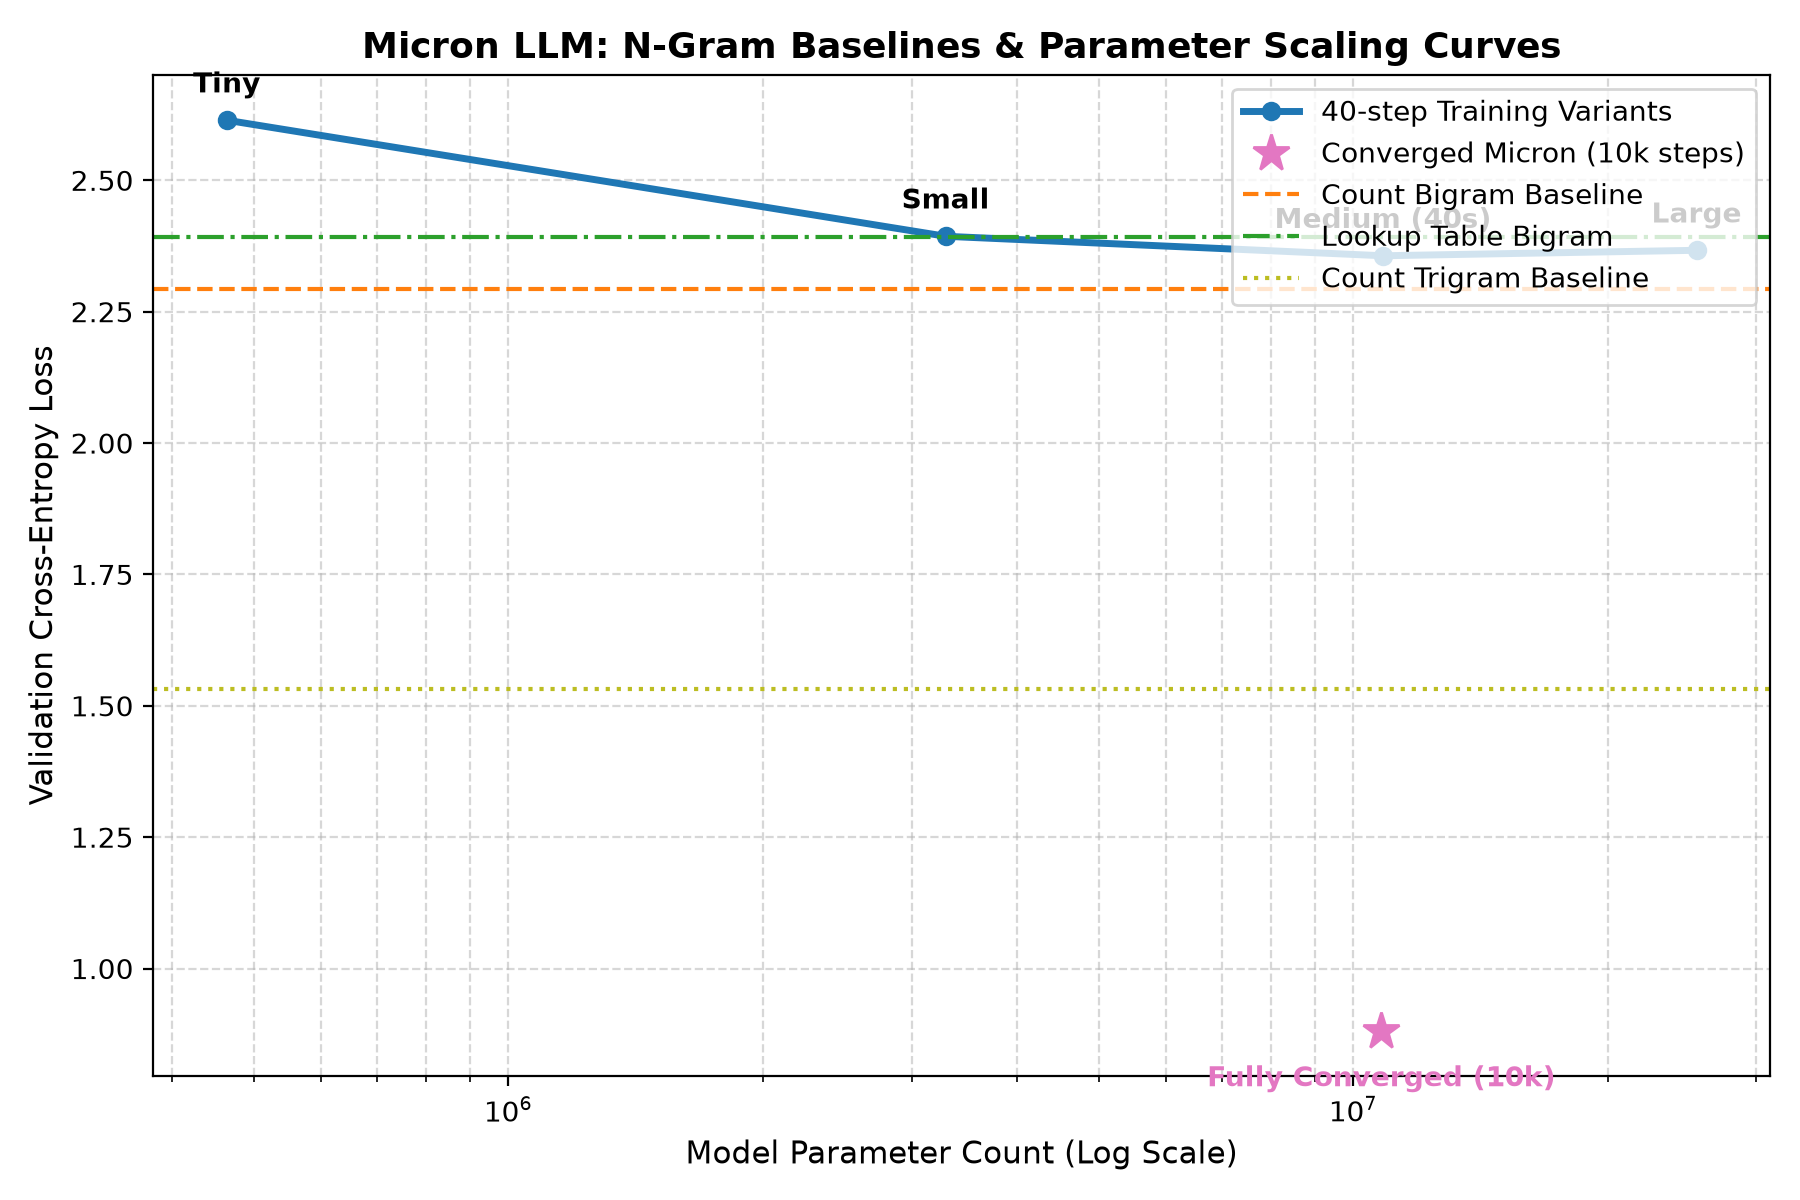
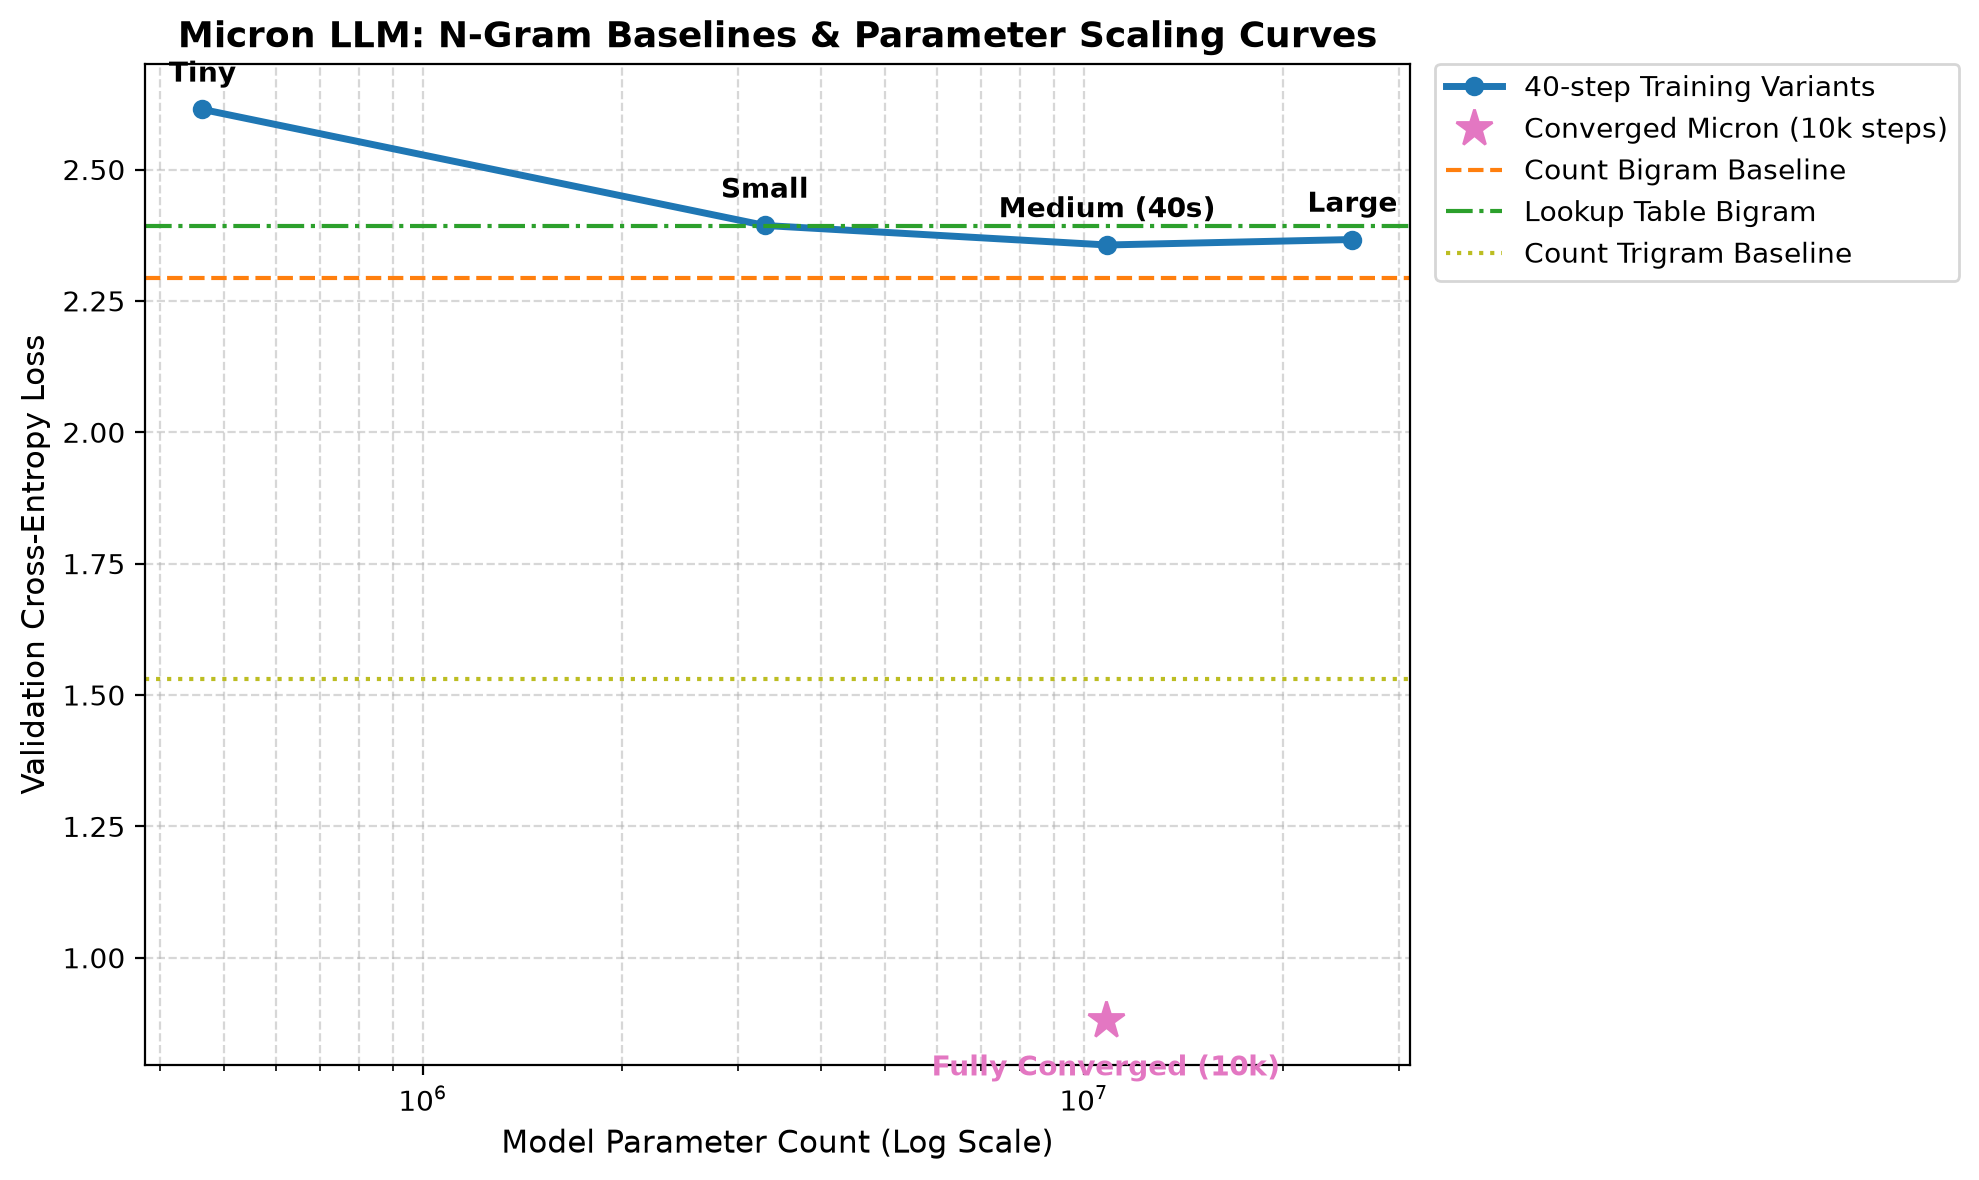
Scale Laws.png legend update

diff --git a/evaluation/eval_baselines.py b/evaluation/eval_baselines.py
@@ -187,12 +187,66 @@ def train_scaling_variant(train_data, val_data, vocab_size, block_size, n_embd, 
     
     return num_params, mean_val_loss, bpc
 
-def run_baselines_and_scaling():
+def plot_results(results, output_plot_path, num_steps):
+    print("Generating scaling law plots...")
+    counts_res = results["count_bigram"]
+    lookup_val_loss = results["lookup_bigram"]["loss"]
+    variants = results["scaling_law"]["variants"]
+    param_counts = [v["params"] for v in variants]
+    val_losses = [v["val_loss"] for v in variants]
+    
+    converged_params = results["scaling_law"]["fully_converged_micron"]["params"]
+    converged_val_loss = results["scaling_law"]["fully_converged_micron"]["val_loss"]
+    
+    fig, ax1 = plt.subplots(figsize=(10, 6))
+    
+    # Plot scaling curve for short runs
+    ax1.plot(param_counts, val_losses, 'o-', color='#1f77b4', linewidth=2.5, label=f'{num_steps}-step Training Variants')
+    for i, txt in enumerate(["Tiny", "Small", f"Medium ({num_steps}s)", "Large"]):
+        ax1.annotate(txt, (param_counts[i], val_losses[i]), textcoords="offset points", xytext=(0,10), ha='center', fontweight="bold")
+        
+    # Mark fully converged Micron checkpoint (from 10k step run)
+    ax1.plot(converged_params, converged_val_loss, '*', markersize=14, color='#e377c2', label='Converged Micron (10k steps)')
+    ax1.annotate("Fully Converged (10k)", (converged_params, converged_val_loss), textcoords="offset points", xytext=(0,-20), ha='center', color='#e377c2', fontweight="bold")
+    
+    # Mark Baselines as horizontal lines
+    ax1.axhline(y=counts_res["bigram_loss"], color='#ff7f0e', linestyle='--', label='Count Bigram Baseline')
+    ax1.axhline(y=lookup_val_loss, color='#2ca02c', linestyle='-.', label='Lookup Table Bigram')
+    ax1.axhline(y=counts_res["trigram_loss"], color='#bcbd22', linestyle=':', label='Count Trigram Baseline')
+    
+    ax1.set_xscale('log')
+    ax1.set_xlabel('Model Parameter Count (Log Scale)', fontsize=11)
+    ax1.set_ylabel('Validation Cross-Entropy Loss', fontsize=11)
+    ax1.grid(True, which="both", linestyle="--", alpha=0.5)
+    ax1.set_title("Micron LLM: N-Gram Baselines & Parameter Scaling Curves", fontsize=13, fontweight="bold")
+    
+    # Position legend to the right side of the plot
+    ax1.legend(bbox_to_anchor=(1.02, 1), loc='upper left', borderaxespad=0.0)
+    
+    plt.tight_layout()
+    plt.savefig(output_plot_path, dpi=200, bbox_inches='tight')
+    plt.close()
+    print(f"Scaling plot saved to: {output_plot_path}")
+
+def run_baselines_and_scaling(plot_only=False):
     print("==================================================")
     checkpoint_path = os.path.abspath(os.path.join(script_dir, "..", "checkpoints", "micron_model.pt"))
     dataset_path = os.path.abspath(os.path.join(script_dir, "..", "data", "qa_dataset.txt"))
     output_json_path = os.path.abspath(os.path.join(script_dir, "..", "results", "baseline_scaling_results.json"))
     output_plot_path = os.path.abspath(os.path.join(script_dir, "..", "results", "scaling_laws.png"))
+
+    num_steps = 200 if device == 'cuda' else 40
+
+    if plot_only:
+        if not os.path.exists(output_json_path):
+            print(f"Error: Results file '{output_json_path}' not found. Cannot run plot-only mode without existing results.")
+            sys.exit(1)
+        print(f"Loading baseline and scaling results from: {output_json_path}")
+        with open(output_json_path, "r") as f:
+            results = json.load(f)
+        plot_results(results, output_plot_path, num_steps)
+        print("==================================================")
+        return
 
     if not os.path.exists(checkpoint_path):
         print(f"Error: Checkpoint file '{checkpoint_path}' not found.")
@@ -241,7 +295,6 @@ def run_baselines_and_scaling():
     val_losses = []
     val_bpcs = []
     
-    num_steps = 200 if device == 'cuda' else 40
     for conf in configs:
         ckpt_file = os.path.abspath(os.path.join(script_dir, "..", "checkpoints", conf["file"]))
         p_count, v_loss, v_bpc = train_scaling_variant(
@@ -294,36 +347,13 @@ def run_baselines_and_scaling():
         json.dump(results, f, indent=4)
     print(f"\nBaseline and Scaling results saved to: {output_json_path}")
     
-    # 4. Generate plots
-    print("Generating scaling law plots...")
-    fig, ax1 = plt.subplots(figsize=(9, 6))
-    
-    # Plot scaling curve for short runs
-    ax1.plot(param_counts, val_losses, 'o-', color='#1f77b4', linewidth=2.5, label=f'{num_steps}-step Training Variants')
-    for i, txt in enumerate(["Tiny", "Small", f"Medium ({num_steps}s)", "Large"]):
-        ax1.annotate(txt, (param_counts[i], val_losses[i]), textcoords="offset points", xytext=(0,10), ha='center', fontweight="bold")
-        
-    # Mark fully converged Micron checkpoint (from 10k step run)
-    ax1.plot(converged_params, converged_val_loss, '*', markersize=14, color='#e377c2', label='Converged Micron (10k steps)')
-    ax1.annotate("Fully Converged (10k)", (converged_params, converged_val_loss), textcoords="offset points", xytext=(0,-20), ha='center', color='#e377c2', fontweight="bold")
-    
-    # Mark Baselines as horizontal lines
-    ax1.axhline(y=counts_res["bigram_loss"], color='#ff7f0e', linestyle='--', label='Count Bigram Baseline')
-    ax1.axhline(y=lookup_val_loss, color='#2ca02c', linestyle='-.', label='Lookup Table Bigram')
-    ax1.axhline(y=counts_res["trigram_loss"], color='#bcbd22', linestyle=':', label='Count Trigram Baseline')
-    
-    ax1.set_xscale('log')
-    ax1.set_xlabel('Model Parameter Count (Log Scale)', fontsize=11)
-    ax1.set_ylabel('Validation Cross-Entropy Loss', fontsize=11)
-    ax1.grid(True, which="both", linestyle="--", alpha=0.5)
-    ax1.set_title("Micron LLM: N-Gram Baselines & Parameter Scaling Curves", fontsize=13, fontweight="bold")
-    ax1.legend(loc="upper right")
-    
-    plt.tight_layout()
-    plt.savefig(output_plot_path, dpi=200)
-    plt.close()
-    print(f"Scaling plot saved to: {output_plot_path}")
+    plot_results(results, output_plot_path, num_steps)
     print("==================================================")
 
 if __name__ == "__main__":
-    run_baselines_and_scaling()
+    import argparse
+    parser = argparse.ArgumentParser()
+    parser.add_argument('--plot-only', action='store_true', help='Only regenerate the plot from existing baseline_scaling_results.json')
+    args = parser.parse_args()
+    
+    run_baselines_and_scaling(plot_only=args.plot_only)